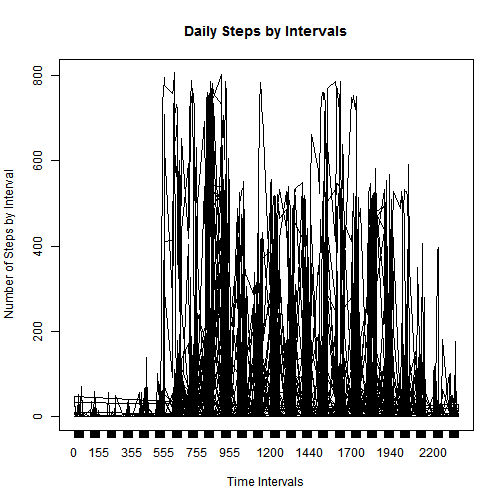
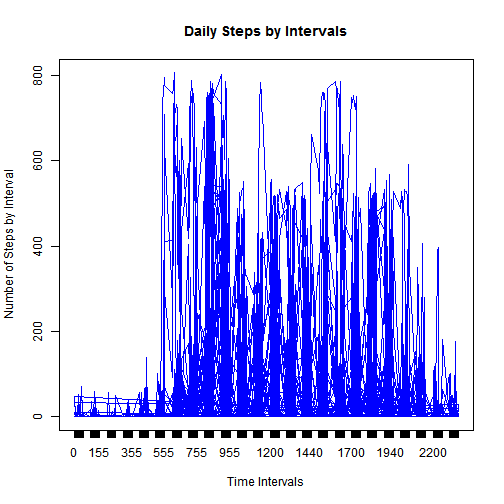
update markdown files and figures

Changed region(s): [[0.1488, 0.1488, 0.9226, 0.8333]]

diff --git a/PA1_template.html b/PA1_template.html
@@ -254,7 +254,7 @@ library(knitr)
       # Calulate Create histogram representing the daily number of steps
 
 
-      hist(activityDataSteps$steps,main = &quot; Daily Steps&quot;, xlab = &quot;Steps&quot;, col =&quot;red&quot;)
+      hist(activityDataSteps$steps,main = &quot; Daily Steps&quot;, xlab = &quot;Steps&quot;, col =&quot;blue&quot;)
 
 
       # Caluculate the mean number of daily steps
@@ -269,7 +269,7 @@ library(knitr)
       # Create histogram representing the daily mean number of daily steps
 
 
-      hist(activityDataSteps1$Mean, main = &quot;Mean Daily Steps&quot;, xlab = &quot;Steps&quot;, col =&quot;red&quot;)
+      hist(activityDataSteps1$Mean, main = &quot;Mean Daily Steps&quot;, xlab = &quot;Steps&quot;, col =&quot;blue&quot;)
 
 
       #Caluculate the median daily steps
@@ -283,7 +283,7 @@ library(knitr)
       # Create histogram representing the daily median number of daily steps
 
 
-      hist(activityDataSteps2$Median, main = &quot;Median Daily Steps&quot;, xlab = &quot;Steps&quot;, col =&quot;red&quot;)
+      hist(activityDataSteps2$Median, main = &quot;Median Daily Steps&quot;, xlab = &quot;Steps&quot;, col =&quot;blue&quot;)
 
       #Caluculate the interval steps
 
@@ -291,7 +291,7 @@ library(knitr)
 
       #A time series plot 5-minute interval (x-axis), average number of steps taken, averaged across all days (y-axis)
 
-     plot(as.numeric(activityDataSteps5$interval),activityDataSteps5$steps, type = &quot;l&quot;, xaxt = &quot;n&quot;, main = &quot;Daily Steps by Intervals&quot;, xlab = &quot;Time Intervals&quot;, ylab = &quot;Number of Steps by Interval&quot;)
+     plot(as.numeric(activityDataSteps5$interval),activityDataSteps5$steps, type = &quot;l&quot;, xaxt = &quot;n&quot;, main = &quot;Daily Steps by Intervals&quot;, xlab = &quot;Time Intervals&quot;, ylab = &quot;Number of Steps by Interval&quot;, col = &quot;blue&quot;)
       axis(1, at=as.numeric(activityDataSteps5$interval), labels = activityDataSteps5$interval)
 
 
@@ -305,25 +305,36 @@ library(knitr)
       print(&quot;The number of NA&#39;s are: &quot;)
       print(NAS)
 
+       #Imputing missing values      
+
+
+      #sStrategy for filling in all of the missing values in the dataset will be to use the mean value
+      activityDataSteps6 &lt;- replace(activityData1$steps, is.na(activityData1$steps), mean(activityData1$steps, na.rm = TRUE)) 
+
+
+
+
+
+
   }    
 </code></pre>
 
 <pre><code class="r">    data_analysis()
 </code></pre>
 
[2 lines of base64/hex data omitted]
 
 <pre><code>## [1] &quot;The mean steps are:&quot;
 ## [1] 37.3826
 </code></pre>
 
[2 lines of base64/hex data omitted]
 
 <pre><code>## [1] &quot;The median steps are:&quot;
 ## [1] 0
 </code></pre>
 
[2 lines of base64/hex data omitted]
 
 <pre><code>## [1] &quot;The number of NA&#39;s are: &quot;
 ## [1] 2304

diff --git a/PA1_template.md b/PA1_template.md
@@ -63,7 +63,7 @@ library(knitr)
       # Calulate Create histogram representing the daily number of steps
       
     
-      hist(activityDataSteps$steps,main = " Daily Steps", xlab = "Steps", col ="red")
+      hist(activityDataSteps$steps,main = " Daily Steps", xlab = "Steps", col ="blue")
       
       
       # Caluculate the mean number of daily steps
@@ -78,7 +78,7 @@ library(knitr)
       # Create histogram representing the daily mean number of daily steps
       
       
-      hist(activityDataSteps1$Mean, main = "Mean Daily Steps", xlab = "Steps", col ="red")
+      hist(activityDataSteps1$Mean, main = "Mean Daily Steps", xlab = "Steps", col ="blue")
       
       
       #Caluculate the median daily steps
@@ -92,7 +92,7 @@ library(knitr)
       # Create histogram representing the daily median number of daily steps
       
       
-      hist(activityDataSteps2$Median, main = "Median Daily Steps", xlab = "Steps", col ="red")
+      hist(activityDataSteps2$Median, main = "Median Daily Steps", xlab = "Steps", col ="blue")
       
       #Caluculate the interval steps
       
@@ -100,7 +100,7 @@ library(knitr)
       
       #A time series plot 5-minute interval (x-axis), average number of steps taken, averaged across all days (y-axis)
      
-     plot(as.numeric(activityDataSteps5$interval),activityDataSteps5$steps, type = "l", xaxt = "n", main = "Daily Steps by Intervals", xlab = "Time Intervals", ylab = "Number of Steps by Interval")
+     plot(as.numeric(activityDataSteps5$interval),activityDataSteps5$steps, type = "l", xaxt = "n", main = "Daily Steps by Intervals", xlab = "Time Intervals", ylab = "Number of Steps by Interval", col = "blue")
       axis(1, at=as.numeric(activityDataSteps5$interval), labels = activityDataSteps5$interval)
       
      
@@ -113,6 +113,17 @@ library(knitr)
       NAS <- sum(is.na(activityData1$steps))
       print("The number of NA's are: ")
       print(NAS)
+      
+       #Imputing missing values      
+      
+      
+      #sStrategy for filling in all of the missing values in the dataset will be to use the mean value
+      activityDataSteps6 <- replace(activityData1$steps, is.na(activityData1$steps), mean(activityData1$steps, na.rm = TRUE)) 
+    
+      
+      
+      
+      
       
   }    
 ```
